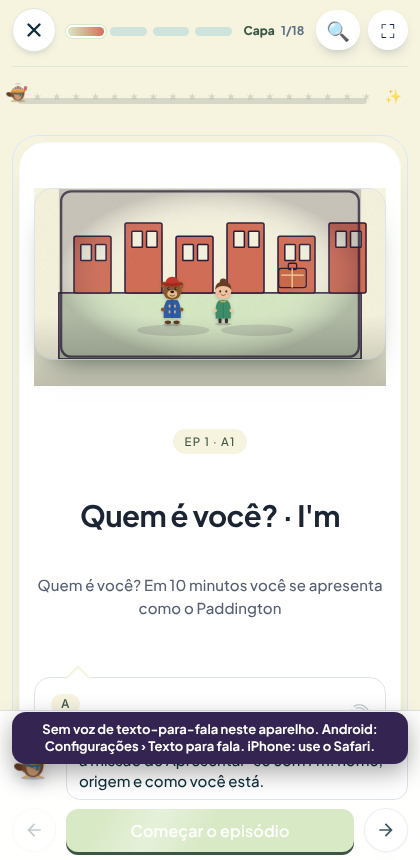
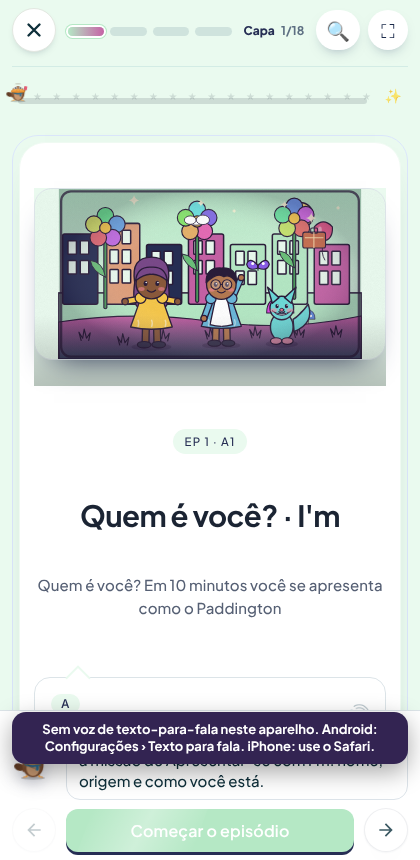
Capas e ilustrações dos episódios no detalhismo das capas desenhadas; trava mede o detalhe
Claude-Session: https://claude.ai/code/session_01JMT5CnTuKx2eCQPv8b6MBc

diff --git a/js/obra-art.js b/js/obra-art.js
@@ -67,7 +67,7 @@ function objectOf(e,w,scene){const text=`${w} ${(e&&e.a&&e.a.k)||''} ${(e&&e.a&&
 
 function meta(e){
  const w=workOf(e),h=hash(w),key=keyOf(e),pal=palOf(h),motif=motifOf(e,w),scene=sceneOf(e,w);
- KEY[e&&e.n||key]=key;VB[key]='120 45 560 370';SCN[key]=scene;
+ KEY[e&&e.n||key]=key;VB[key]='100 40 600 400';SCN[key]=scene;
  const title=w.split(/[:·–—]/)[0].trim();
  const who=(e&&e.fr||[]).flatMap(f=>Object.keys(f.cast||{})).find(Boolean)||'Pog';
  const names=['Mina','Theo','Lena','Sam','Noah','Ari'];
@@ -127,9 +127,93 @@ function object(kind,x,y,s,c){
  if(kind==='flask')return `<g transform="translate(${x} ${y}) scale(${z})"><path d="M37 8h30M45 8v30L18 82q-6 12 12 12h44q18 0 12-12L55 38V8" fill="${c}" fill-opacity=".7" stroke="${INK}" stroke-width="4"/><path d="M28 75h52" stroke="#fff" stroke-width="4"/></g>`;
  return `<g transform="translate(${x} ${y}) scale(${z})">${P(10,25,68,45,'#fff',12)}<path d="M78 35q20 0 20 14t-20 14" fill="none" stroke="${INK}" stroke-width="4"/><path d="M22 16q-4-14 8-20M42 16Q38 2 50-4" fill="none" stroke="${c}" stroke-width="4" stroke-linecap="round"/></g>`;
 }
-function body(e,mode){
+/* ---------- arte rica: personagens, bichinho e cenário no mesmo traço das capas desenhadas à mão ---------- */
+const stk=w=>`stroke="${INK}" stroke-width="${w==null?3:w}" stroke-linejoin="round" stroke-linecap="round"`;
+const Pp=(d,fill,w,ex)=>`<path d="${d}" fill="${fill}" ${w===0?'':stk(w)} ${ex||''}/>`;
+const Ee=(cx,cy,rx,ry,fill,w)=>`<ellipse cx="${cx}" cy="${cy}" rx="${rx}" ry="${ry}" fill="${fill}" ${w===0?'':stk(w)}/>`;
+const Cc=(cx,cy,r,fill,w)=>Ee(cx,cy,r,r,fill,w);
+const Rr=(x,y,w,h,fill,rx,sw)=>`<rect x="${x}" y="${y}" width="${w}" height="${h}" rx="${rx||0}" fill="${fill}" ${sw===0?'':stk(sw)}/>`;
+const Ln=(x1,y1,x2,y2,w,fill)=>`<line x1="${x1}" y1="${y1}" x2="${x2}" y2="${y2}" stroke="${INK}" stroke-width="${w+6}" stroke-linecap="round"/><line x1="${x1}" y1="${y1}" x2="${x2}" y2="${y2}" stroke="${fill}" stroke-width="${w}" stroke-linecap="round"/>`;
+const eyes2=(x,y,gap,r)=>{gap=gap||13;r=r||4.4;return [-1,1].map(s=>`<ellipse cx="${x+s*gap}" cy="${y}" rx="${r}" ry="${r*1.3}" fill="${INK}"/><circle cx="${x+s*gap+1.4}" cy="${y-2}" r="${r*.38}" fill="#fff"/>`).join('')};
+const blush2=(x,y,gap)=>[-1,1].map(s=>`<ellipse cx="${x+s*gap}" cy="${y}" rx="7" ry="4.4" fill="#ff8aa0" opacity=".55"/>`).join('');
+const smile2=(x,y,w)=>`<path d="M${x-w} ${y} Q${x} ${y+w*.95} ${x+w} ${y}" fill="none" stroke="${INK}" stroke-width="2.8" stroke-linecap="round"/>`;
+const shadow2=w=>Ee(0,0,w||44,8,'rgba(30,20,50,.22)',0);
+const SKINS=['#ffd7b5','#f1c7a8','#d9a273','#b57a52','#8b5a3c'],HAIRS=['#f4d06f','#2b1d3a','#5a3425','#a65d2f','#243b53','#d9503f','#7a4a8a'];
+/* criança (origem nos pés; altura ~200) */
+function rkid(o){
+ const sk=o.skin,hair=o.hair,top=o.top;let g=shadow2();
+ if(o.hairStyle==='long')g+=Pp('M-37,-142 Q-46,-198 0,-198 Q46,-198 37,-142 Q43,-98 30,-88 L-30,-88 Q-43,-98 -37,-142Z',hair);
+ if(o.hairStyle==='braids')g+=[-1,1].map(s=>Ln(s*30,-132,s*40,-92,13,hair)+Cc(s*40,-90,6,o.ribbon||'#e8473b',2.4)).join('');
+ if(o.hairStyle==='bun')g+=Cc(0,-190,17,hair);
+ if(o.dress){
+  g+=Ln(-12,-52,-13,-9,12,o.legs||sk)+Ln(12,-52,13,-9,12,o.legs||sk)+Ee(-16,-5,15,7,o.shoe,2.6)+Ee(16,-5,15,7,o.shoe,2.6);
+  g+=Pp('M-22,-112 L22,-112 L46,-44 Q0,-34 -46,-44 Z',top);
+  if(o.apron)g+=Pp('M-13,-110 L13,-110 L26,-48 Q0,-40 -26,-48 Z','#fff');
+  for(let i=0;i<3;i++)g+=`<path d="M${-30+i*30},-60 q4,8 0,16" stroke="#fff" stroke-width="3" fill="none" opacity=".5"/>`;
+ }else{
+  g+=Ln(-10,-70,-12,-10,16,o.bot)+Ln(10,-70,12,-10,16,o.bot)+Ee(-15,-6,16,8,o.shoe,2.6)+Ee(15,-6,16,8,o.shoe,2.6);
+  g+=Pp('M-24,-116 L24,-116 L26,-62 Q0,-54 -26,-62 Z',top);
+  g+=Rr(-26,-70,52,9,o.belt,3,2.4);
+  g+=Cc(0,-92,4,'#fff6d6',2);
+ }
+ const A={down:[[-40,-62],[40,-62]],wave:[[-40,-62],[46,-156]],out:[[-58,-100],[58,-100]],up:[[-44,-150],[44,-150]]}[o.arms];
+ g+=Ln(-24,-106,A[0][0],A[0][1],10,o.sleeve)+Ln(24,-106,A[1][0],A[1][1],10,o.sleeve)+Cc(A[0][0],A[0][1],7,sk,2.6)+Cc(A[1][0],A[1][1],7,sk,2.6);
+ if(o.dress)g+=Cc(-24,-108,12,o.sleeve,2.8)+Cc(24,-108,12,o.sleeve,2.8);
+ g+=Cc(0,-140,34,sk);
+ if(o.hairStyle==='short'||o.hairStyle==='bun')g+=Pp('M-35,-144 Q-36,-180 0,-178 Q36,-180 35,-144 Q20,-166 6,-158 Q-10,-170 -35,-144Z',hair);
+ else g+=Pp('M-35,-146 Q-31,-178 0,-176 Q31,-178 35,-146 Q14,-162 0,-160 Q-14,-162 -35,-146Z',hair);
+ if(o.band)g+=`<path d="M-36,-150 Q0,-184 36,-150" fill="none" stroke="${o.band}" stroke-width="7" stroke-linecap="round"/>`+Pp('M-36,-152 L-50,-162 L-48,-144Z M-36,-152 L-26,-164 L-24,-146Z',o.band,2.4);
+ g+=eyes2(0,-140,13)+blush2(0,-128,22)+smile2(0,-125,9);
+ if(o.glasses)g+=`<circle cx="-13" cy="-140" r="11" fill="rgba(255,255,255,.25)" ${stk(2.4)}/><circle cx="13" cy="-140" r="11" fill="rgba(255,255,255,.25)" ${stk(2.4)}/><path d="M-2,-140h4" ${stk(2.4)} fill="none"/>`;
+ if(o.hat==='cap')g+=Pp('M-34,-166 Q-6,-196 38,-168 Q8,-164 -34,-166Z',o.hatColor)+Pp('M14,-176 Q40,-212 52,-196 Q40,-190 24,-172Z','#e8473b',2.4);
+ if(o.hat==='bonnet')g+=Pp('M-38,-156 Q-30,-190 0,-190 Q30,-190 38,-156 Q20,-148 0,-150 Q-20,-148 -38,-156Z',o.hatColor)+Pp('M-40,-158 Q0,-146 40,-158 L36,-150 Q0,-140 -36,-150Z',o.hatColor,2.4);
+ if(o.hat==='top')g+=Rr(-30,-196,60,40,'#2b2538',6,3)+Ee(0,-158,44,9,'#2b2538',3)+Rr(-30,-170,60,9,o.hatColor,0,2.4);
+ if(o.hat==='crown')g+=Pp('M-26,-166 L-30,-196 L-14,-182 L0,-204 L14,-182 L30,-196 L26,-166Z','#f6c84c')+Cc(0,-186,4,'#e8473b',2);
+ return g;
+}
+/* bichinho companheiro (origem nos pés; altura ~120) */
+function critter(kind,c1,c2){
+ let g=shadow2(34);
+ const face=(y)=>eyes2(0,y,10,3.6)+blush2(0,y+9,17)+`<ellipse cx="0" cy="${y+8}" rx="4.4" ry="3.2" fill="#e8798f" ${stk(2)}/>`+smile2(0,y+12,6);
+ if(kind==='bunny'){g+=[-1,1].map(s=>Ee(s*13,-118,9,28,c1)+Ee(s*13,-116,4.4,19,'#ffc2cf',0)).join('')+Ee(0,-36,26,32,c1)+Ee(0,-32,15,22,'#fff',0)+Cc(0,-76,25,c1)+face(-78)+[-1,1].map(s=>Ee(s*14,-6,13,7,c1,2.6)).join('');}
+ else if(kind==='cat'){g+=Pp('M30,-30 Q64,-50 52,-88',  'none',7)+Ee(0,-36,25,30,c1)+Cc(0,-76,26,c1)+[-1,1].map(s=>Pp(`M${s*24},-84 L${s*30},-112 L${s*10},-98Z`,c1)).join('')+[-1,0,1].map(i=>`<path d="M${i*9},-98 v9" ${stk(2.4)} fill="none"/>`).join('')+face(-78)+[-1,1].map(s=>Ee(s*12,-6,12,7,c1,2.6)).join('');}
+ else if(kind==='bear'){g+=Ee(0,-38,28,34,c1)+Ee(0,-32,16,22,c2,0)+Cc(0,-80,27,c1)+[-1,1].map(s=>Cc(s*22,-102,10,c1)).join('')+Ee(0,-72,13,10,c2)+face(-82)+[-1,1].map(s=>Ee(s*14,-6,13,7,c1,2.6)).join('');}
+ else if(kind==='fox'){g+=Pp('M26,-26 Q70,-44 56,-84 Q38,-60 24,-52Z',c1)+Ee(0,-36,24,30,c1)+Cc(0,-76,25,c1)+[-1,1].map(s=>Pp(`M${s*20},-86 L${s*30},-120 L${s*6},-98Z`,c1)).join('')+Pp('M-20,-70 Q0,-50 20,-70 Q0,-56 -20,-70Z','#fff',2)+face(-80)+[-1,1].map(s=>Ee(s*12,-6,12,7,c2,2.6)).join('');}
+ else {g+=Ee(0,-44,28,32,c1)+Pp('M-8,-44 Q30,-70 34,-34 Q16,-24 -8,-44Z',c2)+Cc(0,-84,22,c1)+Pp('M20,-84 L40,-78 L20,-72Z','#f6c84c',2.6)+eyes2(-2,-88,8,3.6)+blush2(-2,-78,15)+Pp('M-6,-18 v12M6,-18 v12','none',3);}
+ return g;
+}
+function flowerBig(x,y,s,hue){const cols=[0,72,144,216,288].map(d=>hsl(hue+d,70,66));let g=Ln(x,y,x,y+210,5,'#4c9a5c')+Pp(`M${x} ${y+130} q-34 -14 -40 -44 q34 4 40 44z`,'#6cc07a',2.4);
+ for(let i=0;i<5;i++){const a=i*72*Math.PI/180;g+=Cc((x+Math.sin(a)*32*s).toFixed(1),(y-Math.cos(a)*32*s).toFixed(1),22*s,cols[i],3);}
+ return `<g data-decor="1">${g+Cc(x,y,15*s,'#f6c84c',3)}</g>`;}
+function mushroom(x,y,s,c){return `<g data-decor="1" transform="translate(${x} ${y}) scale(${s})">${Rr(-9,-4,18,44,'#f7e7c4',6)}${Pp('M-40,-2 Q-40,-46 0,-46 Q40,-46 40,-2Z',c)}${[[-18,-22],[4,-32],[20,-16]].map(q=>Cc(q[0],q[1],5.5,'#fff',0)).join('')}</g>`;}
+function sparkle(x,y,s){return `<path data-decor="1" d="M${x} ${y-s}Q${x+s*.15} ${y-s*.15} ${x+s} ${y}Q${x+s*.15} ${y+s*.15} ${x} ${y+s}Q${x-s*.15} ${y+s*.15} ${x-s} ${y}Q${x-s*.15} ${y-s*.15} ${x} ${y-s}z" fill="#fff6d6" opacity=".9"/>`;}
+function tuft(x,y){return `<path data-decor="1" d="M${x} ${y}l-6 -22l10 16l4 -24l6 24l10 -14l-4 20" fill="none" ${stk(3)}/>`;}
+function butterfly(x,y,c){return `<g data-decor="1" transform="translate(${x} ${y})">${Pp('M0 0Q-22 -26 -30 -4Q-26 16 0 6Z',c)}${Pp('M0 0Q22 -26 30 -4Q26 16 0 6Z',c)}${Cc(-14,-6,4,'#fff',0)}${Cc(14,-6,4,'#fff',0)}<path d="M0 -4v16" ${stk(3)}/></g>`;}
+function balloon(x,y,c){return `<g data-decor="1" transform="translate(${x} ${y})"><path d="M0 0Q-26 -4 -24 -38Q0 -64 24 -38Q26 -4 0 0z" fill="${c}" ${stk(3)}/><path d="M0 0l-4 8h8z" fill="${c}" ${stk(2.4)}/><path d="M0 8Q-8 30 4 50" fill="none" ${stk(2.4)}/><ellipse cx="-9" cy="-30" rx="5" ry="9" fill="#fff" opacity=".45"/></g>`;}
+function lookOf(h,pal,k){
+ const hh=h>>>(k*3),dress=(hh>>>2)%2===0,tops=[pal[1],hsl(h+60,60,64),hsl(h+200,60,66),'#7ec8f2','#e8473b','#f6c84c'];
+ const arms=['down','wave','out','wave'][(hh>>>5)%4],hats=[null,null,'cap','bonnet','top','crown',null,null];
+ return {skin:SKINS[(hh>>>1)%5],hair:HAIRS[(hh>>>4)%7],hairStyle:['long','braids','short','bun','long','short'][(hh>>>7)%6],dress,apron:dress&&(hh>>>9)%2,
+  top:tops[(hh>>>3)%6],bot:pal[2],belt:pal[1],sleeve:tops[(hh>>>3)%6],shoe:'#3a3550',ribbon:'#e8473b',band:(hh>>>11)%3===0?hsl(h+30,70,48):null,
+  glasses:(hh>>>13)%4===0,hat:hats[(hh>>>15)%8],hatColor:hsl(h+90,55,58),arms};
+}
+/* cenário rico: céu e chão em gradiente, colinas, flores gigantes, cogumelos, brilhos, tufos, borboletas */
+function decor(h,pal,id){
+ let back='',front='';
+ const hue=h%360,kinds=[(h>>>3)%3,(h>>>6)%3];
+ for(let i=0;i<3;i++){const x=70+i*270+((h>>>(i+4))%60);back+=flowerBig(x,70+((h>>>(i+8))%60),1,hue+i*40);}
+ back+=mushroom(560+((h>>>5)%80),330,.8+((h>>>9)%3)*.1,hsl(hue+160,70,58))+mushroom(650+((h>>>7)%60),345,.55,hsl(hue+80,65,62));
+ for(let i=0;i<6;i++)back+=sparkle(30+((h>>>i)%12)*62+i*9,24+((h>>>(i+2))%90),6+(i%3)*4);
+ back+=cloud(130+((h>>>4)%300),48+((h>>>8)%40),.7,'#fff');
+ back+=butterfly(60+((h>>>3)%600),150+((h>>>6)%80),hsl(hue+120,75,64));
+ back+=balloon(700,110+((h>>>10)%40),hsl(hue+200,70,62));
+ front+=`<path d="M0 352Q200 322 400 350T800 336V450H0z" fill="url(#${id}-g)" ${stk(3)}/>`;
+ for(let i=0;i<7;i++)front+=tuft(40+i*112+((h>>>i)%30),392+((h>>>(i+3))%34));
+ return {back,front};
+}
+function body(e,mode,gid){
  const m=meta(e),{pal,scene}=m,h=hash(m.w),bg=pal[3],accent=pal[1],dark=pal[2],light=pal[0];
- let s=`<rect width="800" height="450" fill="${bg}"/>`;
+ let s=`<rect width="800" height="450" fill="url(#${gid}-s)"/>`;
  if(scene==='water'){s+=`<path d="M0 290Q110 250 220 290T440 290T660 290T880 290V450H0z" fill="${light}" stroke="${INK}" stroke-width="4"/>`;for(let i=0;i<5;i++)s+=`<path d="M${i*175-20} 332q42-17 84 0t84 0" fill="none" stroke="${accent}" stroke-width="7" stroke-linecap="round"/>`;s+=cloud(115,72,.8,'#fff');}
  else if(scene==='forest'){s+=`<path d="M0 320Q150 260 300 320T600 320T900 320V450H0z" fill="${light}" stroke="${INK}" stroke-width="4"/>`;for(let i=0;i<6;i++){const x=i*150+35;s+=`<path d="M${x} 330L${x+14} 125L${x+28} 330z" fill="${accent}" stroke="${INK}" stroke-width="4"/><circle cx="${x+14}" cy="${125+(i%2)*25}" r="34" fill="${dark}" stroke="${INK}" stroke-width="4"/>`;}}
  else if(scene==='stage'){s+=`<path d="M0 0h170v450H0zM630 0h170v450H630z" fill="${accent}" stroke="${INK}" stroke-width="4"/><rect x="170" width="460" height="450" fill="${bg}" stroke="${INK}" stroke-width="4"/>`;for(let i=0;i<4;i++)s+=star(250+i*105,78+(i%2)*20,12,light);}
@@ -141,17 +225,17 @@ function body(e,mode){
  else if(scene==='night'){s+=`<rect width="800" height="450" fill="${dark}"/><circle cx="${120+(h%5)*120}" cy="92" r="38" fill="#fff6d6" stroke="${INK}" stroke-width="4"/>`;for(let i=0;i<14;i++)s+=star(40+((h>>>i)%7)*115+i*5,30+((i*37+h)%150),5+(i%3)*3,'#fff6d6');s+=P(0,300,800,150,light,0);for(let i=0;i<5;i++){const w=90+((h>>>i)%4)*22,x=i*160+8;s+=P(x,200-((h>>>(i+3))%4)*28,w,110+((h>>>(i+3))%4)*28,accent,4);}}
  else {s+=P(0,275,800,175,light,0);const n=4+(h>>>3)%4,wd=Math.floor(780/n);for(let i=0;i<n;i++){const x=10+i*wd,t=(h>>>(i+2))%4,hh=130+t*28,y=275-hh+30,bw=wd-18;s+=P(x,y,bw,hh,pick([accent,dark,light,'#e0a07c'],(h>>>(i+1))+i),5);const cols=bw>100?3:2,rows=Math.max(1,Math.floor((hh-50)/52));for(let r=0;r<rows;r++)for(let c=0;c<cols;c++)s+=P(x+14+c*((bw-28)/cols),y+18+r*52,(bw-28)/cols-10,36,bg,2);}
  if((h>>>6)%2)s+=`<circle cx="${620+(h%120)}" cy="70" r="34" fill="#f7d77b" stroke="${INK}" stroke-width="4"/>`;}
- s+=object(m.motif||OBJECTS[scene]||'window',575,188,.85,accent);
- const skins=['#f1c7a8','#c88e67','#8b5a3c','#f5d3ba'],hairs=['#2b1d3a','#5a3425','#a65d2f','#243b53'],shirts=[accent,light,dark,'#c65b6f'],fallback={skin:skins[h%4],hair:hairs[(h>>>2)%4],shirt:shirts[(h>>>3)%4]},fall2={skin:skins[(h>>>5)%4],hair:hairs[(h>>>7)%4],shirt:shirts[((h>>>3)+2)%4]};
- const ids=m.ids&&m.ids.length?m.ids:['tom','polly'];
- s+=`<g class="obra-shadow"><ellipse cx="303" cy="374" rx="96" ry="15" fill="#2b1d3a" opacity=".14"/><ellipse cx="525" cy="374" rx="96" ry="15" fill="#2b1d3a" opacity=".14"/></g>`;
- s+=charFor(ids[0],300,220,.95,false,fallback,(h>>>10)%8);
- s+=charFor(ids[1]||ids[0],525,226,.9,true,fall2,(h>>>13)%8);
+ const dc=decor(h,pal,gid);s+=dc.back+dc.front;
+ s+=object(m.motif||OBJECTS[scene]||'window',640,96,.7,accent);
+ const A=lookOf(h,pal,0),B=lookOf(h,pal,1),K=['bunny','cat','bear','fox','bird'][(h>>>6)%5],ck=[hsl(h,45,86),hsl(h+40,60,64),hsl(h+200,50,70)];
+ if(B.skin===A.skin&&B.hair===A.hair)B.hair=HAIRS[(HAIRS.indexOf(A.hair)+2)%7];
+ const fig=(x,y,sc,inner,fy)=>`<g data-fig="${x},${Math.round(y-fy*sc)}" transform="translate(${x} ${y}) scale(${sc})">${inner}</g>`;
+ s+=fig(245,418,1.2,rkid(A),140)+fig(430,414,1.15,rkid(B),140)+fig(590,410,1.25,critter(K,ck[(h>>>9)%3],ck[((h>>>9)+1)%3]),78);
  s+=`<rect x="6" y="6" width="788" height="438" rx="26" fill="none" stroke="${INK}" stroke-width="6" opacity=".75"/>`;
  return s;
 }
-function svg(e,mode){const m=meta(e),id='obra-'+(++uid),view=mode==='sticker'?(VB[m.key]||'155 58 490 355'):mode==='strip'?'0 205 800 120':mode==='face'?'245 150 310 230':'0 0 800 450';
- return `<svg class="obra-art obra-${esc(mode||'cover')}" data-obra="${esc(m.key)}" viewBox="${view}" width="800" height="450" preserveAspectRatio="xMidYMid meet" role="img" aria-label="${esc(m.title)}"><defs><filter id="${id}-paper"><feTurbulence type="fractalNoise" baseFrequency=".7" numOctaves="2" seed="${hash(m.w)%99}"/><feColorMatrix values="0 0 0 0 0 0 0 0 0 0 0 0 0 0 0 0 0 0 .16 0"/></filter><radialGradient id="${id}-v"><stop offset="55%" stop-color="#fff" stop-opacity="0"/><stop offset="100%" stop-color="#2b1d3a" stop-opacity=".22"/></radialGradient></defs>${body(e,mode)}<rect width="800" height="450" filter="url(#${id}-paper)" opacity=".22" pointer-events="none"/><rect width="800" height="450" fill="url(#${id}-v)" pointer-events="none"/></svg>`;
+function svg(e,mode){const m=meta(e),id='obra-'+(++uid),view=mode==='sticker'?(VB[m.key]||'100 40 600 400'):mode==='strip'?'110 150 600 200':mode==='face'?'140 150 210 190':'0 0 800 450',par=mode==='strip'?'xMidYMid slice':'xMidYMid meet';
+ return `<svg class="obra-art obra-${esc(mode||'cover')}" data-obra="${esc(m.key)}" viewBox="${view}" width="800" height="450" preserveAspectRatio="${par}" role="img" aria-label="${esc(m.title)}"><defs><linearGradient id="${id}-s" x1="0" y1="0" x2="0" y2="1"><stop offset="0" stop-color="${m.pal[0]}"/><stop offset="1" stop-color="${m.pal[3]}"/></linearGradient><linearGradient id="${id}-g" x1="0" y1="0" x2="0" y2="1"><stop offset="0" stop-color="${m.pal[1]}"/><stop offset="1" stop-color="${m.pal[2]}" stop-opacity=".85"/></linearGradient><filter id="${id}-paper"><feTurbulence type="fractalNoise" baseFrequency=".7" numOctaves="2" seed="${hash(m.w)%99}"/><feColorMatrix values="0 0 0 0 0 0 0 0 0 0 0 0 0 0 0 0 0 0 .16 0"/></filter><radialGradient id="${id}-v"><stop offset="55%" stop-color="#fff" stop-opacity="0"/><stop offset="100%" stop-color="#2b1d3a" stop-opacity=".22"/></radialGradient></defs>${body(e,mode,id)}<rect width="800" height="450" filter="url(#${id}-paper)" opacity=".22" pointer-events="none"/><rect width="800" height="450" fill="url(#${id}-v)" pointer-events="none"/></svg>`;
 }
 function face(e){return svg(e,'face');}
 function playerState(){try{return window.P||(0,eval)('typeof P!=="undefined"&&typeof P==="object"?P:null')}catch(_){return null}}

diff --git a/tools/audit/trava_referencias_capas.js b/tools/audit/trava_referencias_capas.js
@@ -2,7 +2,12 @@
 /* Trava de qualidade: referências culturais distintas + capas distintas (inglês regular).
  * Uso: node tools/audit/trava_referencias_capas.js   (precisa de `python3 -m http.server 8123` na raiz)
  * Falha (exit 1) se: obra repetida (normalização forte) · título sem obra · capa idêntica a outra
- * · cena dominante > 25% · < 600 paletas · < 2500 capas visualmente distintas · < 60% com motivo próprio. */
+ * · cena dominante > 25% · < 600 paletas.
+ * DETALHE (mínimos = menor valor medido nas 10 capas desenhadas à mão, arredondado para baixo):
+ *   ≥110 elementos · ≥18 cores de preenchimento · ≥30 paths · ≥2 gradientes · ≥3 figuras com rosto
+ *   (2 personagens + bichinho) · ≥6 itens de cenário. Cada recorte usado nos episódios precisa mostrar os rostos:
+ *   O SVG precisa ser XML válido (sem atributos repetidos).
+ *   cover/sticker/strip ≥2 rostos dentro do viewBox, face ≥1. */
 const {chromium}=require(process.env.PLAYWRIGHT||'/opt/node22/lib/node_modules/playwright');
 const BASE=process.env.BASE||'http://localhost:8123';
 (async()=>{const b=await chromium.launch();const p=await b.newPage();
@@ -12,12 +17,22 @@ const R=await p.evaluate(async()=>{
  const eps=[];
  for(const l of ['a1','a2','b1','b2','c1','c2'])for(let n=1;n<=30;n++){let j;try{j=await (await fetch('data/en-'+l+'_'+String(n).padStart(2,'0')+'.json')).json()}catch(e){break}
   if(!Array.isArray(j))j=j.episodes||j.eps||[];for(const e of j)eps.push(Object.assign({cid:'en-'+l},e));}
+ const MIN={el:110,fills:18,paths:30,grads:2,figs:3,decor:6},detail={};const bad={el:0,fills:0,paths:0,grads:0,figs:0,faces:0,decor:0};
  const works={},svgs={},scenes={},pals=new Set(),motifs={};let own=0,nowork=[];
  for(const e of eps){const w=(e.a||{}).w;if(!w){nowork.push(e.n);continue}
   (works[norm(w)]=works[norm(w)]||[]).push(e.n);
   const m=PogObra.meta(e);scenes[m.scene]=(scenes[m.scene]||0)+1;pals.add(m.pal.join());
-  const s=PogObra.svg(e,'cover').replace(/obra-\d+/g,'obra-X');svgs[s]=(svgs[s]||0)+1;}
- return {n:eps.length,nowork,dups:Object.entries(works).filter(([k,v])=>v.length>1).map(([k,v])=>k+' '+v.join('/')),
+  const s=PogObra.svg(e,'cover').replace(/obra-\d+/g,'obra-X');svgs[s]=(svgs[s]||0)+1;
+  for(const mode of ['cover','sticker','strip','face']){
+   const box=document.createElement('div');box.innerHTML=PogObra.svg(e,mode);const sv=box.firstElementChild,all=[...sv.querySelectorAll('*')];
+   if(mode==='cover'&&new DOMParser().parseFromString(PogObra.svg(e,mode),'image/svg+xml').querySelector('parsererror')){bad.xml=(bad.xml||0)+1;detail.xml=detail.xml||e.n}
+   const fills=new Set(all.map(x=>x.getAttribute('fill')).filter(f=>f&&f!=='none'&&!/^url/.test(f)));
+   const figs=[...sv.querySelectorAll('[data-fig]')],vb=sv.getAttribute('viewBox').split(' ').map(Number);
+   const inView=figs.filter(g=>{const [x,y]=g.getAttribute('data-fig').split(',').map(Number);return x>=vb[0]&&x<=vb[0]+vb[2]&&y>=vb[1]&&y<=vb[1]+vb[3]}).length;
+   const t=(c,k)=>{if(c){bad[k]++;if(!detail[k])detail[k]=e.n+'/'+mode}};
+   if(mode==='cover'){t(all.length<MIN.el,'el');t(fills.size<MIN.fills,'fills');t(sv.querySelectorAll('path').length<MIN.paths,'paths');t(sv.querySelectorAll('linearGradient,radialGradient').length<MIN.grads,'grads');t(figs.length<MIN.figs,'figs');t(sv.querySelectorAll('[data-decor]').length<MIN.decor,'decor')}
+   t(inView<(mode==='face'?1:2),'faces');}}
+ return {bad,detail,n:eps.length,nowork,dups:Object.entries(works).filter(([k,v])=>v.length>1).map(([k,v])=>k+' '+v.join('/')),
   distinctWorks:Object.keys(works).length,scenes,pals:pals.size,visual:Object.keys(svgs).length,identical:Object.values(svgs).filter(v=>v>1).length}});
 await b.close();
 const maxScene=Math.max(...Object.values(R.scenes))/R.n;
@@ -26,6 +41,7 @@ if(R.nowork.length)fails.push('episódios sem obra: '+R.nowork.length);
 if(R.dups.length)fails.push('obras repetidas: '+R.dups.length+' ('+R.dups.slice(0,5).join('; ')+')');
 if(R.distinctWorks!==R.n)fails.push(`obras distintas ${R.distinctWorks} ≠ episódios ${R.n}`);
 if(R.visual<R.n)fails.push(`capas idênticas entre si: ${R.n-R.visual}`);
+for(const [k,v] of Object.entries(R.bad))if(v)fails.push(`detalhe insuficiente (${k}): ${v} capas/recortes, ex.: ${R.detail[k]}`);
 if(maxScene>.25)fails.push('cena dominante '+Math.round(maxScene*100)+'% (>25%)');
 if(R.pals<600)fails.push('paletas distintas '+R.pals+' (<600)');
 console.log(JSON.stringify({episodios:R.n,obras_distintas:R.distinctWorks,capas_distintas:R.visual,paletas:R.pals,cenas:R.scenes,cena_dominante:Math.round(maxScene*100)+'%'}));

diff --git a/sw.js b/sw.js
@@ -1,5 +1,5 @@
 /* Pogglot · service worker: app offline, dados e áudio em cache */
-const V='pogglot-shell-v277',DATA='pogglot-data-v199';
+const V='pogglot-shell-v278',DATA='pogglot-data-v200';
 const SHELL=['css/regular-pilot.css','js/regular-pilot.js','css/pilot-reward.css','js/pilot-reward.js','css/figurinhas.css','js/figurinhas.js','js/obra-art.js','css/obra-theme.css','js/obra-theme.js','css/home-art.css','css/home-new.css','js/home-art.js','js/landing-pro.js','css/landing-pro.css','css/pogcoins.css','js/pogcoins.js','js/home-new.js','js/roteiro-screen.js','./','index.html','app.html','css/landing.css','css/modern.css','css/mobile.css','css/steps-modern.css','css/lean.css','css/sidenav.css','js/sidenav.js','js/lean.js','js/lat.js','js/pager.js','js/life.js','js/onboard.js','js/album.js','js/telemetry.js','css/streakleague.css','js/streakleague.js','css/livexp.css','js/livexp.js','css/cultfoco.css','js/cultfoco-data.js','js/cultfoco.js','js/write.js','js/acc.js','js/art.js','data/kanji-strokes.json','data/kanji.json','js/kanji.js','js/dict.js','data/kana-strokes.json','css/exam-modern.css','js/exam-modern.js','config.js','data/availability.json','js/cloud.js','js/voice.js','js/tts.js','js/a11y.js','js/exams.js','js/sync.js','js/social.js','js/pron.js','js/vocab.js','js/romaji.js','js/review.js','css/social.css','css/a11y.css','js/ui.js','js/know.js','js/community.js','js/hello.js','js/missions.js','js/listen.js','js/recap.js','js/theme.js','css/dark.css','css/tokens.css','css/home2.css','css/community3.css','css/suavez.css','css/desk.css','css/air.css','css/nbfit.css','css/nbopen.css','js/nbopen.js','css/closefit.css','js/closefit.js','js/illus.js','js/scenefx.js','js/scenes.js','js/faces.js','js/suavez.js','js/scn_fine.js','js/scn_fine2.js','js/scn_fine3.js','js/scn_fine4.js','js/scn_new.js','js/chars6.js','css/premium.css','js/forum.js','js/extras.js','js/billing.js','css/forum.css','css/community2.css','js/settings.js','js/path.js','js/ai.js','manifest.webmanifest','icons/icon-192.png'];
 SHELL.unshift('js/english-pilot-cast.js');
 self.addEventListener('install',e=>{e.waitUntil(caches.open(V).then(c=>Promise.all(SHELL.map(u=>c.add(u).catch(()=>0)))).then(()=>self.skipWaiting()))});

diff --git a/app.html b/app.html
@@ -4786,7 +4786,7 @@ Promise.all(jobs).catch(function(){}).then(function(){location.reload()})}catch(
 <script src="js/illus.js?v=1"></script>
 <link rel="stylesheet" href="css/regular-pilot.css?v=2"><link rel="stylesheet" href="css/pilot-reward.css?v=2">
 <script src="js/english-pilot-cast.js"></script>
-<script src="js/regular-pilot.js?v=5"></script><script src="js/pilot-reward.js?v=6"></script><script src="js/obra-art.js?v=8"></script><link rel="stylesheet" href="css/obra-theme.css?v=7"><script src="js/obra-theme.js?v=4"></script><link rel="stylesheet" href="css/home-art.css?v=4"><link rel="stylesheet" href="css/home-new.css?v=8"><link rel="stylesheet" href="css/pogcoins.css?v=1"><script src="js/pogcoins.js?v=1"></script><script src="js/home-art.js?v=6"></script><script src="js/home-new.js?v=5"></script><link rel="stylesheet" href="css/figurinhas.css?v=10"><script src="js/figurinhas.js?v=11"></script>
+<script src="js/regular-pilot.js?v=5"></script><script src="js/pilot-reward.js?v=6"></script><script src="js/obra-art.js?v=9"></script><link rel="stylesheet" href="css/obra-theme.css?v=7"><script src="js/obra-theme.js?v=4"></script><link rel="stylesheet" href="css/home-art.css?v=4"><link rel="stylesheet" href="css/home-new.css?v=8"><link rel="stylesheet" href="css/pogcoins.css?v=1"><script src="js/pogcoins.js?v=1"></script><script src="js/home-art.js?v=6"></script><script src="js/home-new.js?v=5"></script><link rel="stylesheet" href="css/figurinhas.css?v=10"><script src="js/figurinhas.js?v=11"></script>
 <script src="js/roteiro-screen.js?v=3"></script>
 <link rel="stylesheet" href="css/player-polish.css?v=1">
 </body></html>

diff --git a/docs/PROMPT_REFERENCIAS_E_CAPAS.md b/docs/PROMPT_REFERENCIAS_E_CAPAS.md
@@ -17,11 +17,13 @@ Você vai criar/revisar episódios do curso regular de inglês do Pogglot (model
 3. Dois personagens **diferentes** (cabelo, acessório, cor); objeto-símbolo ligado à obra ou escolhido por hash.
 4. Obras de referência (10 primeiros do A1) podem ter arte desenhada à mão como camada premium por cima do gerador.
 5. Nenhuma capa pode ser visualmente idêntica a outra.
+6. **Nível de detalhe = capas desenhadas à mão** (medido nas 10 referências): ≥110 elementos SVG, ≥18 cores de preenchimento, ≥30 paths, ≥2 gradientes (céu e chão), 3 figuras com rosto (2 crianças com cabelo, roupa, blush e olhos com brilho + 1 bichinho), ≥6 itens de cenário (flores gigantes, cogumelos, brilhos, borboleta, balão, tufos de grama), traço de nanquim e SVG XML válido.
+7. Os recortes usados dentro do episódio (`sticker`, `strip` da faixa “Obra em foco”, `face`) vêm do mesmo SVG e precisam mostrar os rostos (≥2 em cover/sticker/strip, ≥1 em face).
 
 ## Trava (obrigatória antes de publicar)
 ```
 python3 -m http.server 8123 &
-node tools/audit/trava_referencias_capas.js      # 3.000 obras e capas distintas, cena dominante ≤ 25%, ≥ 600 paletas
+node tools/audit/trava_referencias_capas.js      # 3.000 obras e capas distintas, cena dominante ≤ 25%, ≥ 600 paletas, detalhe mínimo e rostos visíveis em cada recorte
 python3 tools/audit/regular_gate.py && python3 tools/audit/english_bridge_gate.py && python3 tools/build_data_index.py --check
 ```
 Falhou = não publica. A mesma trava roda no GitHub Actions (`regular-quality-gate.yml`).
